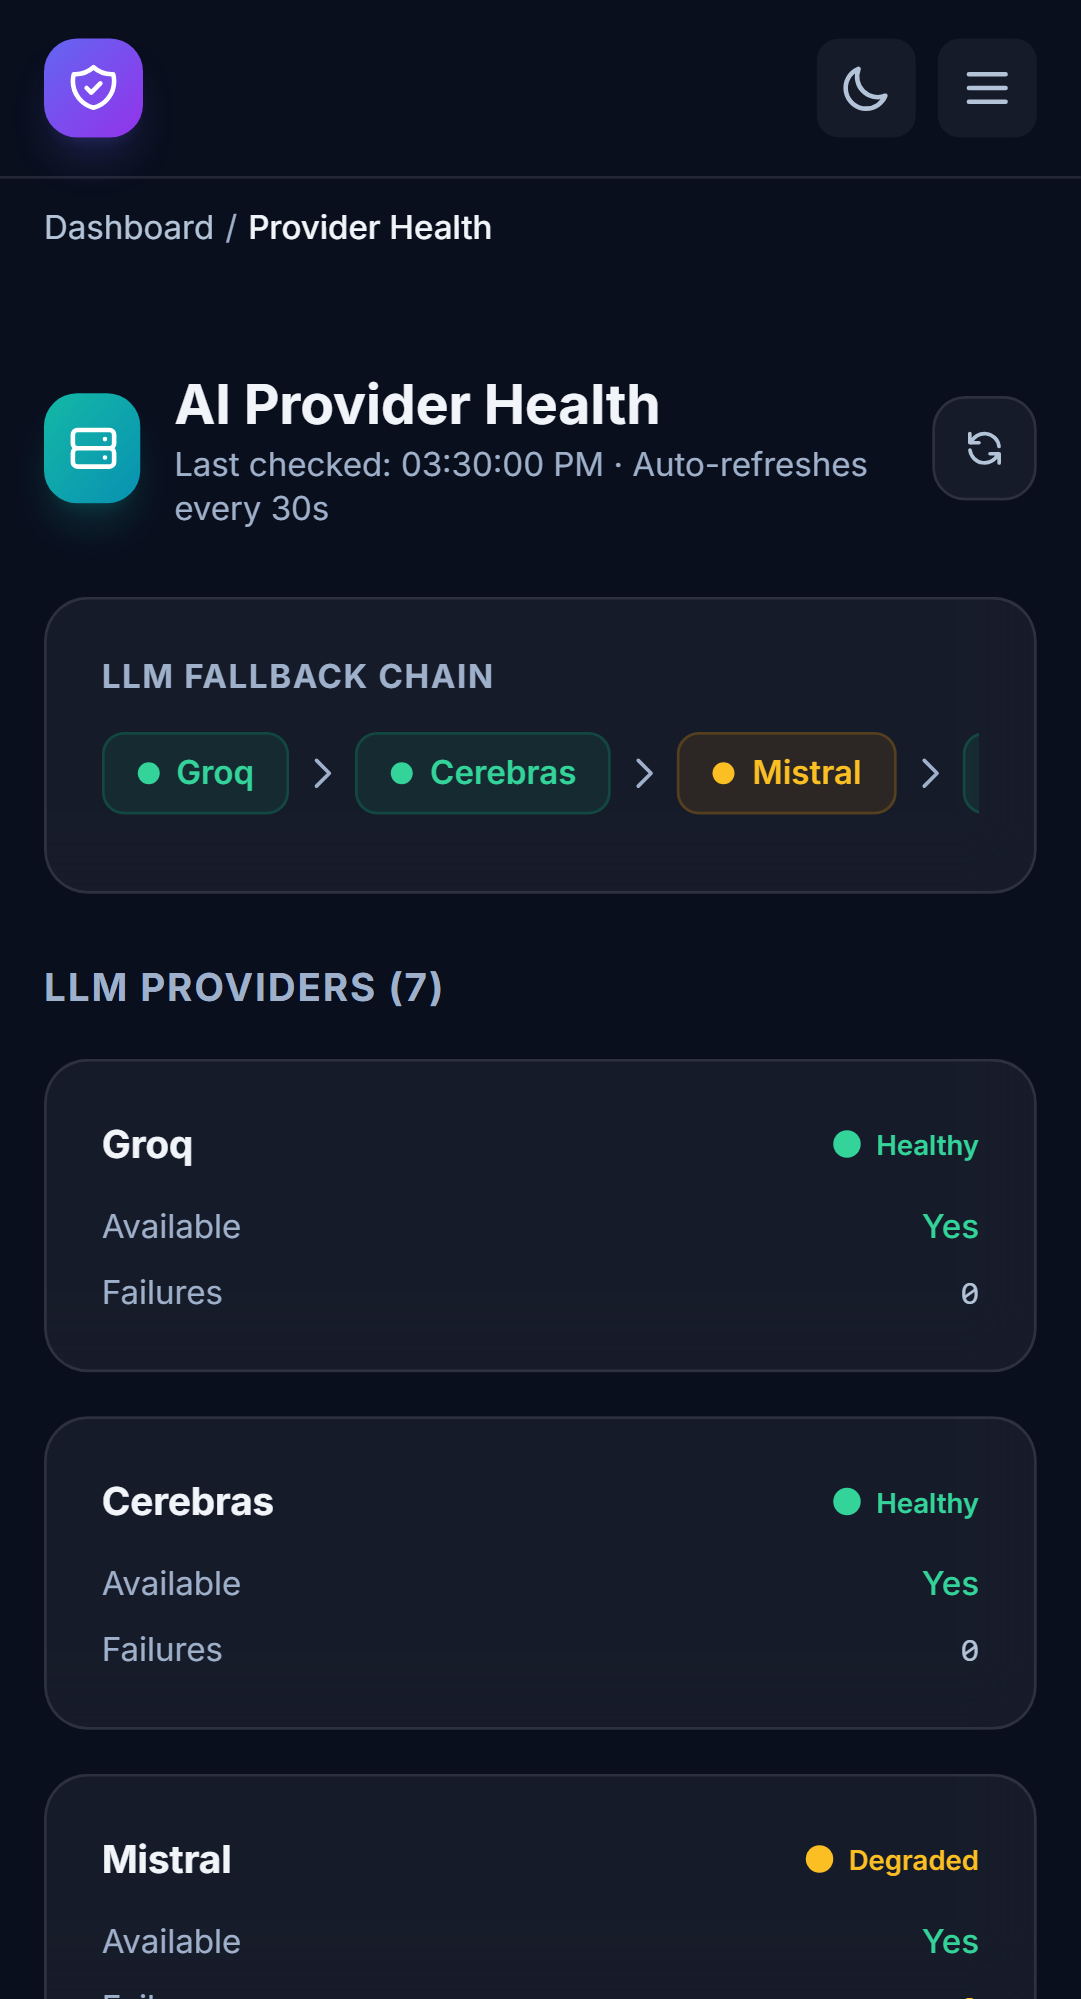
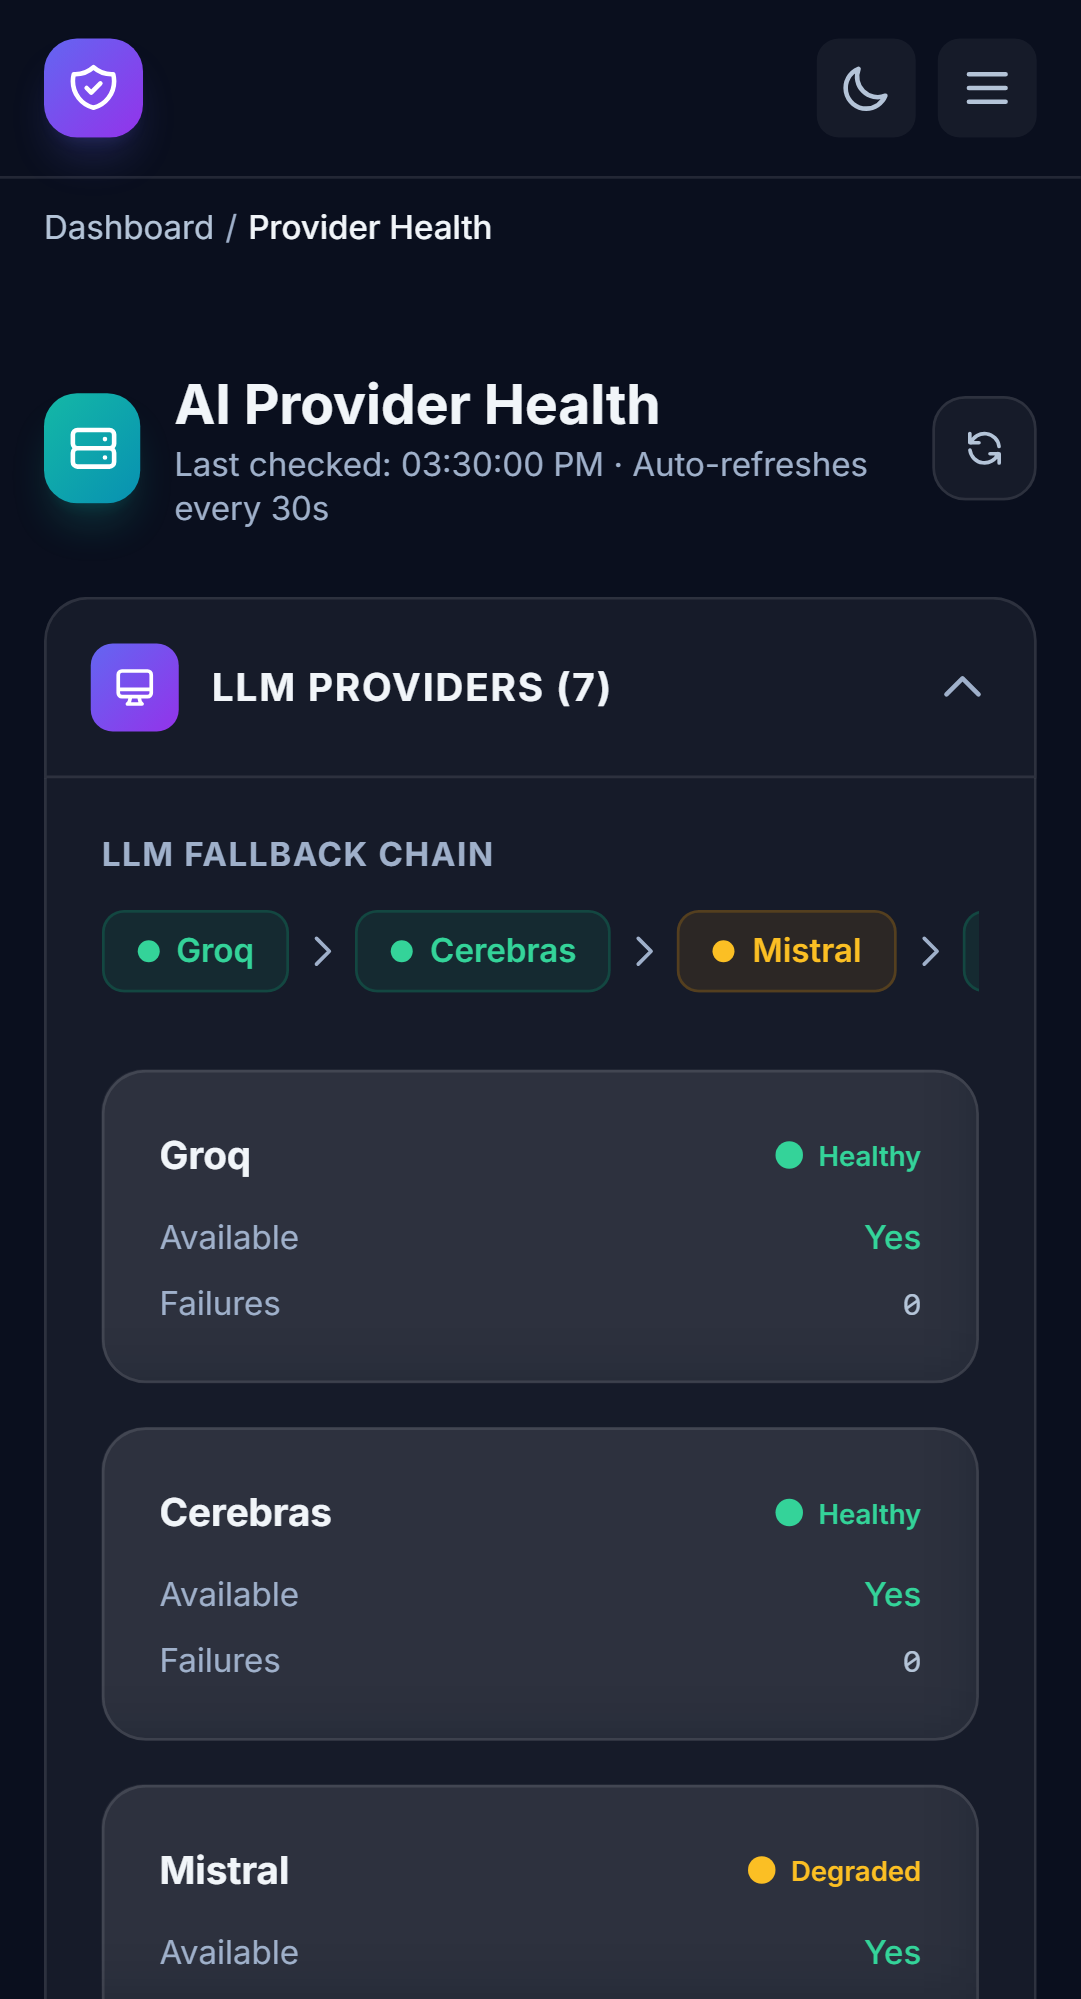
sprin 6 post bug fix

diff --git a/SentimentAnalyzer/Frontend/sentiment-analyzer-ui/src/app/components/provider-health/provider-health.ts b/SentimentAnalyzer/Frontend/sentiment-analyzer-ui/src/app/components/provider-health/provider-health.ts
@@ -33,8 +33,13 @@ import {
             }
           </div>
         </div>
-        <button (click)="refresh()" class="btn-ghost text-sm p-2.5" aria-label="Refresh health status">
-          <svg class="w-4 h-4" [class.animate-spin]="isLoading()" fill="none" stroke="currentColor" viewBox="0 0 24 24">
+        <button (click)="refresh()" [disabled]="isLoading()"
+                class="p-2.5 rounded-xl border transition-all duration-200 hover:scale-105 active:scale-95 disabled:opacity-50 disabled:cursor-not-allowed"
+                [style.background]="'var(--bg-surface-hover)'"
+                [style.border-color]="'var(--border-primary)'"
+                [style.color]="'var(--text-primary)'"
+                aria-label="Refresh health status">
+          <svg class="w-5 h-5" [class.animate-spin]="isLoading()" fill="none" stroke="currentColor" viewBox="0 0 24 24">
             <path stroke-linecap="round" stroke-linejoin="round" stroke-width="2" d="M4 4v5h.582m15.356 2A8.001 8.001 0 004.582 9m0 0H9m11 11v-5h-.581m0 0a8.003 8.003 0 01-15.357-2m15.357 2H15"/>
           </svg>
         </button>
@@ -63,9 +68,10 @@ import {
 
       <!-- ==================== 1. LLM Providers ==================== -->
       @if (llmProviders().length > 0) {
-        <div class="mb-6 animate-fade-in-up stagger-1">
+        <div class="mb-6 animate-fade-in-up stagger-1 isolate">
           <!-- Collapsible Header -->
-          <button (click)="toggleSection('llm')" class="w-full flex items-center justify-between p-4 glass-card-static mb-0 rounded-b-none cursor-pointer hover:bg-white/5 transition-colors"
+          <button (click)="toggleSection('llm')" class="w-full text-left flex items-center justify-between p-4 glass-card-static no-backdrop-blur mb-0 cursor-pointer hover:bg-white/5 transition-colors !transform-none"
+                  [class.rounded-b-none]="isSectionExpanded('llm')"
                   [attr.aria-expanded]="isSectionExpanded('llm')" aria-controls="section-llm" aria-label="Toggle LLM Providers section">
             <div class="flex items-center gap-3">
               <div class="w-8 h-8 rounded-lg bg-gradient-to-br from-indigo-500 to-purple-600 flex items-center justify-center">
@@ -81,7 +87,7 @@ import {
           </button>
 
           @if (isSectionExpanded('llm')) {
-            <div id="section-llm" class="glass-card-static rounded-t-none border-t-0 p-5">
+            <div id="section-llm" class="glass-card-static no-backdrop-blur rounded-t-none border-t-0 p-5 overflow-hidden">
               <!-- LLM Fallback Chain -->
               <p class="text-xs font-bold uppercase tracking-wider mb-3" [style.color]="'var(--text-muted)'">LLM Fallback Chain</p>
               <div class="flex items-center gap-1 overflow-x-auto pb-3 mb-4 custom-scrollbar" tabindex="0" role="region" aria-label="LLM provider fallback chain">
@@ -176,8 +182,9 @@ import {
 
       <!-- Chain Section Template (for Embedding, OCR, NER, STT) -->
       <ng-template #chainSection let-section let-label="label" let-subtitle="subtitle" let-providers="providers" let-icon="icon" let-gradient="gradient">
-        <div class="mb-6 animate-fade-in-up">
-          <button (click)="toggleSection(section)" class="w-full flex items-center justify-between p-4 glass-card-static mb-0 rounded-b-none cursor-pointer hover:bg-white/5 transition-colors"
+        <div class="mb-6 animate-fade-in-up isolate">
+          <button (click)="toggleSection(section)" class="w-full text-left flex items-center justify-between p-4 glass-card-static no-backdrop-blur mb-0 cursor-pointer hover:bg-white/5 transition-colors !transform-none"
+                  [class.rounded-b-none]="isSectionExpanded(section)"
                   [attr.aria-expanded]="isSectionExpanded(section)" [attr.aria-controls]="'section-' + section" [attr.aria-label]="'Toggle ' + label + ' section'">
             <div class="flex items-center gap-3">
               <div class="w-8 h-8 rounded-lg bg-gradient-to-br flex items-center justify-center" [ngClass]="gradient">
@@ -214,7 +221,7 @@ import {
           </button>
 
           @if (isSectionExpanded(section)) {
-            <div [id]="'section-' + section" class="glass-card-static rounded-t-none border-t-0 p-5">
+            <div [id]="'section-' + section" class="glass-card-static no-backdrop-blur rounded-t-none border-t-0 p-5 overflow-hidden">
               <!-- Chain Visualization -->
               <p class="text-xs font-bold uppercase tracking-wider mb-3" [style.color]="'var(--text-muted)'">Fallback Chain</p>
               <div class="flex items-center gap-1 overflow-x-auto pb-3 mb-4 custom-scrollbar" tabindex="0" role="region" [attr.aria-label]="label + ' fallback chain'">
@@ -288,8 +295,9 @@ import {
 
       <!-- Service Section Template (for Content Safety, Translation) -->
       <ng-template #serviceSection let-section let-label="label" let-services="services" let-gradient="gradient">
-        <div class="mb-6 animate-fade-in-up">
-          <button (click)="toggleSection(section)" class="w-full flex items-center justify-between p-4 glass-card-static mb-0 rounded-b-none cursor-pointer hover:bg-white/5 transition-colors"
+        <div class="mb-6 animate-fade-in-up isolate">
+          <button (click)="toggleSection(section)" class="w-full text-left flex items-center justify-between p-4 glass-card-static no-backdrop-blur mb-0 cursor-pointer hover:bg-white/5 transition-colors !transform-none"
+                  [class.rounded-b-none]="isSectionExpanded(section)"
                   [attr.aria-expanded]="isSectionExpanded(section)" [attr.aria-controls]="'section-' + section" [attr.aria-label]="'Toggle ' + label + ' section'">
             <div class="flex items-center gap-3">
               <div class="w-8 h-8 rounded-lg bg-gradient-to-br flex items-center justify-center" [ngClass]="gradient">
@@ -305,7 +313,7 @@ import {
           </button>
 
           @if (isSectionExpanded(section)) {
-            <div [id]="'section-' + section" class="glass-card-static rounded-t-none border-t-0 p-5">
+            <div [id]="'section-' + section" class="glass-card-static no-backdrop-blur rounded-t-none border-t-0 p-5 overflow-hidden">
               <div class="grid grid-cols-1 sm:grid-cols-2 lg:grid-cols-3 gap-4">
                 @for (svc of services; track svc.name; let i = $index) {
                   <div class="glass-card p-5 animate-fade-in-up" [class]="'stagger-' + mathMin(i + 1, 5)">

diff --git a/SentimentAnalyzer/Frontend/sentiment-analyzer-ui/e2e/document-library.spec.ts b/SentimentAnalyzer/Frontend/sentiment-analyzer-ui/e2e/document-library.spec.ts
@@ -28,14 +28,15 @@ test.describe('Document Library', () => {
     const main = page.getByRole('main');
     await expect(main.getByText('homeowners-policy-2024.pdf')).toBeVisible({ timeout: 10_000 });
 
-    // Category badges
-    await expect(main.getByText('Policy', { exact: true }).first()).toBeVisible();
-    await expect(main.getByText('Claim', { exact: true }).first()).toBeVisible();
-    await expect(main.getByText('Endorsement', { exact: true }).first()).toBeVisible();
-    await expect(main.getByText('Correspondence', { exact: true }).first()).toBeVisible();
+    // Category badges (scope to card grid to avoid matching dropdown options)
+    const cardGrid = main.locator('.grid');
+    await expect(cardGrid.getByText('Policy', { exact: true }).first()).toBeVisible();
+    await expect(cardGrid.getByText('Claim', { exact: true }).first()).toBeVisible();
+    await expect(cardGrid.getByText('Endorsement', { exact: true }).first()).toBeVisible();
+    await expect(cardGrid.getByText('Correspondence', { exact: true }).first()).toBeVisible();
 
     // Status badges
-    const processedBadges = main.getByText('Processed', { exact: true });
+    const processedBadges = cardGrid.getByText('Processed', { exact: true });
     await expect(processedBadges.first()).toBeVisible();
   });
 

diff --git a/SentimentAnalyzer/Frontend/sentiment-analyzer-ui/src/styles.css b/SentimentAnalyzer/Frontend/sentiment-analyzer-ui/src/styles.css
@@ -9,6 +9,7 @@
 
 @layer base {
   .theme-dark {
+    color-scheme: dark;
     --bg-primary: #0a0f1e;
     --bg-secondary: #111827;
     --bg-surface: rgba(255, 255, 255, 0.05);
@@ -28,6 +29,7 @@
   }
 
   .theme-semi-dark {
+    color-scheme: dark;
     --bg-primary: #1e293b;
     --bg-secondary: #2d3a4f;
     --bg-surface: rgba(255, 255, 255, 0.08);
@@ -47,6 +49,7 @@
   }
 
   .theme-light {
+    color-scheme: light;
     --bg-primary: #f8fafc;
     --bg-secondary: #ffffff;
     --bg-surface: rgba(255, 255, 255, 0.9);
@@ -112,6 +115,10 @@ body {
     outline: 2px solid var(--accent-primary);
     outline-offset: 2px;
   }
+  .no-backdrop-blur {
+    backdrop-filter: none !important;
+    -webkit-backdrop-filter: none !important;
+  }
   .elevated-card {
     background: var(--bg-elevated);
     backdrop-filter: blur(16px);
@@ -169,7 +176,12 @@ body {
   select.input-field option {
     background: var(--bg-secondary);
     color: var(--text-primary);
-    padding: 0.5rem;
+    padding: 0.5rem 0.75rem;
+    font-size: 0.875rem;
+  }
+  select.input-field option:checked {
+    background: var(--accent-primary);
+    color: #fff;
   }
   .metric-card {
     @apply p-5 rounded-xl;

diff --git a/SentimentAnalyzer/Frontend/sentiment-analyzer-ui/e2e/document-query.spec.ts b/SentimentAnalyzer/Frontend/sentiment-analyzer-ui/e2e/document-query.spec.ts
@@ -22,11 +22,12 @@ test.describe('Document Query', () => {
     const select = page.locator('#documentFilter');
     await expect(select).toBeVisible();
 
-    // Wait for document history to load (3 items from mock)
-    await expect(select.locator('option')).toHaveCount(4); // "All documents" + 3 items
+    // Wait for document history to load (4 items from mock)
+    await expect(select.locator('option')).toHaveCount(5); // "All documents" + 4 items
     await expect(select.locator('option').nth(1)).toContainText('homeowners-policy-2024.pdf');
     await expect(select.locator('option').nth(2)).toContainText('auto-claim-CLM-2024-001.pdf');
     await expect(select.locator('option').nth(3)).toContainText('endorsement-amendment-003.pdf');
+    await expect(select.locator('option').nth(4)).toContainText('adjuster-correspondence.png');
   });
 
   test('should submit query and show answer', async ({ page }) => {

diff --git a/SentimentAnalyzer/Backend/Endpoints/ProviderHealthEndpoints.cs b/SentimentAnalyzer/Backend/Endpoints/ProviderHealthEndpoints.cs
@@ -103,18 +103,18 @@ public static class ProviderHealthEndpoints
             {
                 Name = "Gemini",
                 ChainOrder = 3,
-                IsConfigured = HasApiKey(settings.GeminiEmbedding.ApiKey),
-                Status = HasApiKey(settings.GeminiEmbedding.ApiKey) ? "Healthy" : "NotConfigured",
-                IsAvailable = HasApiKey(settings.GeminiEmbedding.ApiKey),
+                IsConfigured = HasApiKey(settings.GeminiEmbedding.ApiKey) || HasApiKey(settings.Gemini.ApiKey),
+                Status = (HasApiKey(settings.GeminiEmbedding.ApiKey) || HasApiKey(settings.Gemini.ApiKey)) ? "Healthy" : "NotConfigured",
+                IsAvailable = HasApiKey(settings.GeminiEmbedding.ApiKey) || HasApiKey(settings.Gemini.ApiKey),
                 FreeTierLimit = "1,500 req/day"
             },
             new ProviderChainHealth
             {
                 Name = "HuggingFace",
                 ChainOrder = 4,
-                IsConfigured = HasApiKey(settings.HuggingFaceEmbedding.ApiKey),
-                Status = HasApiKey(settings.HuggingFaceEmbedding.ApiKey) ? "Healthy" : "NotConfigured",
-                IsAvailable = HasApiKey(settings.HuggingFaceEmbedding.ApiKey),
+                IsConfigured = HasApiKey(settings.HuggingFaceEmbedding.ApiKey) || HasApiKey(settings.HuggingFace.ApiKey),
+                Status = (HasApiKey(settings.HuggingFaceEmbedding.ApiKey) || HasApiKey(settings.HuggingFace.ApiKey)) ? "Healthy" : "NotConfigured",
+                IsAvailable = HasApiKey(settings.HuggingFaceEmbedding.ApiKey) || HasApiKey(settings.HuggingFace.ApiKey),
                 FreeTierLimit = "300 req/hr"
             },
             new ProviderChainHealth

diff --git a/SentimentAnalyzer/SPRINT-ROADMAP.md b/SentimentAnalyzer/SPRINT-ROADMAP.md
@@ -200,6 +200,9 @@ Transform the Sentiment Analyzer into a full **Insurance AI Operations Hub** wit
 | 6.4.9 | OCR Chain Overhaul — 2 New Providers + Hardening | ✅ **DONE** — Added `TesseractOcrService` (local, TesseractOCR 5.5.1) + `MistralOcrService` (cloud, reuses Mistral API key). Azure page batching (2 pages/batch via `AnalyzeDocumentOptions.Pages`). OCR Space 1MB guard. PdfPig Letters fallback for CID/Type3 fonts. `ResilientOcrProvider` rewritten for 6-tier chain. 9 tests in `ResilientOcrProviderTests`. |
 | 6.4.10 | Document Library Page | ✅ **DONE** — `/documents` route with card grid, category filter, sort toggle, pagination, nav links. 14 unit + 10 E2E tests |
 | 6.4.11 | Navigation Cross-Linking Gaps | ✅ **DONE** — Added "View Correlations" link on `claim-result` when fraud flags present (`[routerLink]="'/fraud/correlations/' + c.claimId"`). Remaining items (Document Library page, nav links) deferred to 6.4.10. |
+| 6.4.12 | Provider Health UI Polish | ✅ **DONE** — Fixed accordion backdrop-filter blur artifact (`.no-backdrop-blur` class with `!important`), text-left alignment on accordion headers, refresh button restyled with hover/active scale effects + disabled state. Gemini/HuggingFace embedding health now falls back to shared LLM API keys (`\|\|` logic). |
+| 6.4.13 | Native Select Dropdown Theme | ✅ **DONE** — Added `color-scheme: dark` to `.theme-dark`/`.theme-semi-dark` and `color-scheme: light` to `.theme-light` in `styles.css` so native `<select>`/`<option>` elements match the app theme. |
+| 6.4.14 | E2E Test Fixes | ✅ **DONE** — Fixed document-library badge tests (scoped to `.grid` to avoid matching hidden `<option>` elements), fixed document-query filter dropdown count (5 options: "All documents" + 4 items). 666 E2E tests passing. |
 
 ### New Files (Sprint 6)
 
@@ -259,9 +262,9 @@ Both follow the `ResilientOcrProvider` pattern: exponential backoff cooldown (30
 | Metric | Sprint 5 End | Sprint 6 Current |
 |--------|-------------|-----------------|
 | Backend tests (xUnit) | 662 | **704** (+42: Week 4 regression + Week 1-3 services + extended health) |
-| Frontend unit tests | 443 | **443** (command palette fix) |
-| E2E tests | ~450 | **~450** (health endpoint mocks added) |
-| **Grand Total** | **~1,555** | **~1,597** |
+| Frontend unit tests | 443 | **462** (+19: document library, provider health) |
+| E2E tests | ~450 | **~666** (+~216: document library, document query, provider health, batch upload) |
+| **Grand Total** | **~1,555** | **~1,832** |
 | New NuGet packages | — | **3** (ContentSafety, Speech, AppInsights) |
 | New resilient chains | — | **2** (NER: HuggingFace→Azure, STT: Deepgram→Azure) |
 | Azure AI services integrated | 2 (Vision, DocIntel) | **6** (+ContentSafety, Language, Speech, Translator) |
@@ -477,4 +480,4 @@ All Week 4 items are done. See individual item rows in Week 4 table above for de
 
 ---
 
-*Last updated: 2026-03-07 | Sprint 6 COMPLETE (Weeks 1-4). All items done: Upload Sub-Loaders, Provider Health UI Revamp (7 collapsible sections), Document Library Page. 704 backend + 462 frontend tests passing. 3 adversarial review iterations (QA/UX/BA).*
+*Last updated: 2026-03-08 | Sprint 6 COMPLETE (Weeks 1-4 + polish). All items done including 6.4.12-14 UI polish fixes. 704 backend + 462 frontend + ~666 E2E = ~1,832 total tests passing.*
